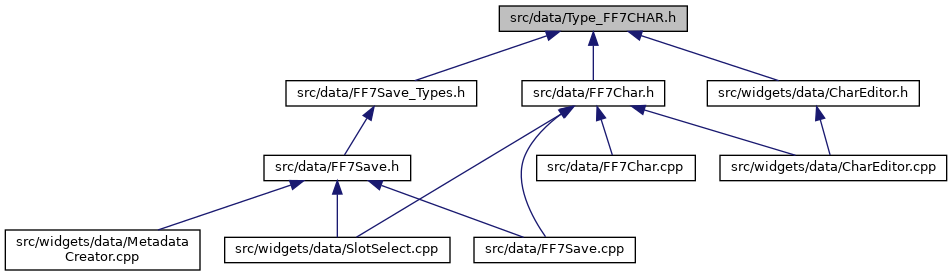
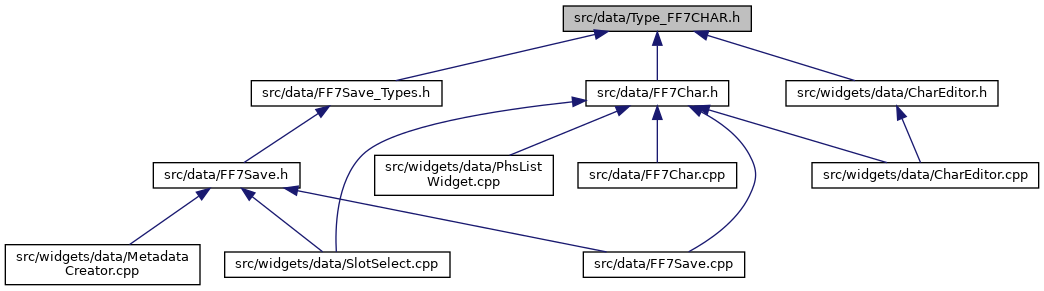
Deploying to gh-pages from @ sithlord48/ff7tk@a0fcc8d8a34610b9dc86fbca7d9c5ea27704c759 🚀

diff --git a/dir_000006_000002.html b/dir_000006_000002.html
@@ -67,7 +67,7 @@ $(function() {
 </div>
 </div><!-- top -->
 <div class="contents">
-<h3>widgets &rarr; data Relation</h3><table class="dirtab"><tr class="dirtab"><th class="dirtab">File in src/widgets</th><th class="dirtab">Includes file in src/data</th></tr><tr class="dirtab"><td class="dirtab"><a class="el" href="dir_79057e944445b198c6cf4982c61ef379.html">data</a>&#160;/&#160;<a class="el" href="AchievementEditor_8h.html">AchievementEditor.h</a></td><td class="dirtab"><a class="el" href="FF7Achievements_8h.html">FF7Achievements.h</a></td></tr><tr class="dirtab"><td class="dirtab"><a class="el" href="dir_79057e944445b198c6cf4982c61ef379.html">data</a>&#160;/&#160;<a class="el" href="CharEditor_8cpp.html">CharEditor.cpp</a></td><td class="dirtab"><a class="el" href="FF7Char_8h.html">FF7Char.h</a></td></tr><tr class="dirtab"><td class="dirtab"><a class="el" href="dir_79057e944445b198c6cf4982c61ef379.html">data</a>&#160;/&#160;<a class="el" href="CharEditor_8cpp.html">CharEditor.cpp</a></td><td class="dirtab"><a class="el" href="FF7Item_8h.html">FF7Item.h</a></td></tr><tr class="dirtab"><td class="dirtab"><a class="el" href="dir_79057e944445b198c6cf4982c61ef379.html">data</a>&#160;/&#160;<a class="el" href="CharEditor_8cpp.html">CharEditor.cpp</a></td><td class="dirtab"><a class="el" href="FF7Materia_8h.html">FF7Materia.h</a></td></tr><tr class="dirtab"><td class="dirtab"><a class="el" href="dir_79057e944445b198c6cf4982c61ef379.html">data</a>&#160;/&#160;<a class="el" href="CharEditor_8h.html">CharEditor.h</a></td><td class="dirtab"><a class="el" href="Type__FF7CHAR_8h.html">Type_FF7CHAR.h</a></td></tr><tr class="dirtab"><td class="dirtab"><a class="el" href="dir_79057e944445b198c6cf4982c61ef379.html">data</a>&#160;/&#160;<a class="el" href="ChocoboEditor_8h.html">ChocoboEditor.h</a></td><td class="dirtab"><a class="el" href="Type__FF7CHOCOBO_8h.html">Type_FF7CHOCOBO.h</a></td></tr><tr class="dirtab"><td class="dirtab"><a class="el" href="dir_79057e944445b198c6cf4982c61ef379.html">data</a>&#160;/&#160;<a class="el" href="ItemList_8cpp.html">ItemList.cpp</a></td><td class="dirtab"><a class="el" href="FF7Item_8h.html">FF7Item.h</a></td></tr><tr class="dirtab"><td class="dirtab"><a class="el" href="dir_79057e944445b198c6cf4982c61ef379.html">data</a>&#160;/&#160;<a class="el" href="ItemListView_8cpp.html">ItemListView.cpp</a></td><td class="dirtab"><a class="el" href="FF7Item_8h.html">FF7Item.h</a></td></tr><tr class="dirtab"><td class="dirtab"><a class="el" href="dir_79057e944445b198c6cf4982c61ef379.html">data</a>&#160;/&#160;<a class="el" href="ItemPreview_8cpp.html">ItemPreview.cpp</a></td><td class="dirtab"><a class="el" href="FF7Item_8h.html">FF7Item.h</a></td></tr><tr class="dirtab"><td class="dirtab"><a class="el" href="dir_79057e944445b198c6cf4982c61ef379.html">data</a>&#160;/&#160;<a class="el" href="ItemSelectionDelegate_8cpp.html">ItemSelectionDelegate.cpp</a></td><td class="dirtab"><a class="el" href="FF7Item_8h.html">FF7Item.h</a></td></tr><tr class="dirtab"><td class="dirtab"><a class="el" href="dir_79057e944445b198c6cf4982c61ef379.html">data</a>&#160;/&#160;<a class="el" href="ItemSelector_8cpp.html">ItemSelector.cpp</a></td><td class="dirtab"><a class="el" href="FF7Item_8h.html">FF7Item.h</a></td></tr><tr class="dirtab"><td class="dirtab"><a class="el" href="dir_79057e944445b198c6cf4982c61ef379.html">data</a>&#160;/&#160;<a class="el" href="LocationViewer_8cpp.html">LocationViewer.cpp</a></td><td class="dirtab"><a class="el" href="FF7FieldItemList_8h.html">FF7FieldItemList.h</a></td></tr><tr class="dirtab"><td class="dirtab"><a class="el" href="dir_79057e944445b198c6cf4982c61ef379.html">data</a>&#160;/&#160;<a class="el" href="LocationViewer_8cpp.html">LocationViewer.cpp</a></td><td class="dirtab"><a class="el" href="FF7Location_8h.html">FF7Location.h</a></td></tr><tr class="dirtab"><td class="dirtab"><a class="el" href="dir_79057e944445b198c6cf4982c61ef379.html">data</a>&#160;/&#160;<a class="el" href="MateriaEditor_8h.html">MateriaEditor.h</a></td><td class="dirtab"><a class="el" href="FF7Materia_8h.html">FF7Materia.h</a></td></tr><tr class="dirtab"><td class="dirtab"><a class="el" href="dir_79057e944445b198c6cf4982c61ef379.html">data</a>&#160;/&#160;<a class="el" href="MetadataCreator_8cpp.html">MetadataCreator.cpp</a></td><td class="dirtab"><a class="el" href="FF7Save_8h.html">FF7Save.h</a></td></tr><tr class="dirtab"><td class="dirtab"><a class="el" href="dir_79057e944445b198c6cf4982c61ef379.html">data</a>&#160;/&#160;<a class="el" href="MetadataCreator_8cpp.html">MetadataCreator.cpp</a></td><td class="dirtab"><a class="el" href="FF7SaveInfo_8h.html">FF7SaveInfo.h</a></td></tr><tr class="dirtab"><td class="dirtab"><a class="el" href="dir_79057e944445b198c6cf4982c61ef379.html">data</a>&#160;/&#160;<a class="el" href="SlotPreview_8cpp.html">SlotPreview.cpp</a></td><td class="dirtab"><a class="el" href="SaveIcon_8h.html">SaveIcon.h</a></td></tr><tr class="dirtab"><td class="dirtab"><a class="el" href="dir_79057e944445b198c6cf4982c61ef379.html">data</a>&#160;/&#160;<a class="el" href="SlotSelect_8cpp.html">SlotSelect.cpp</a></td><td class="dirtab"><a class="el" href="FF7Char_8h.html">FF7Char.h</a></td></tr><tr class="dirtab"><td class="dirtab"><a class="el" href="dir_79057e944445b198c6cf4982c61ef379.html">data</a>&#160;/&#160;<a class="el" href="SlotSelect_8cpp.html">SlotSelect.cpp</a></td><td class="dirtab"><a class="el" href="FF7Save_8h.html">FF7Save.h</a></td></tr></table></div><!-- contents -->
+<h3>widgets &rarr; data Relation</h3><table class="dirtab"><tr class="dirtab"><th class="dirtab">File in src/widgets</th><th class="dirtab">Includes file in src/data</th></tr><tr class="dirtab"><td class="dirtab"><a class="el" href="dir_79057e944445b198c6cf4982c61ef379.html">data</a>&#160;/&#160;<a class="el" href="AchievementEditor_8h.html">AchievementEditor.h</a></td><td class="dirtab"><a class="el" href="FF7Achievements_8h.html">FF7Achievements.h</a></td></tr><tr class="dirtab"><td class="dirtab"><a class="el" href="dir_79057e944445b198c6cf4982c61ef379.html">data</a>&#160;/&#160;<a class="el" href="CharEditor_8cpp.html">CharEditor.cpp</a></td><td class="dirtab"><a class="el" href="FF7Char_8h.html">FF7Char.h</a></td></tr><tr class="dirtab"><td class="dirtab"><a class="el" href="dir_79057e944445b198c6cf4982c61ef379.html">data</a>&#160;/&#160;<a class="el" href="CharEditor_8cpp.html">CharEditor.cpp</a></td><td class="dirtab"><a class="el" href="FF7Item_8h.html">FF7Item.h</a></td></tr><tr class="dirtab"><td class="dirtab"><a class="el" href="dir_79057e944445b198c6cf4982c61ef379.html">data</a>&#160;/&#160;<a class="el" href="CharEditor_8cpp.html">CharEditor.cpp</a></td><td class="dirtab"><a class="el" href="FF7Materia_8h.html">FF7Materia.h</a></td></tr><tr class="dirtab"><td class="dirtab"><a class="el" href="dir_79057e944445b198c6cf4982c61ef379.html">data</a>&#160;/&#160;<a class="el" href="CharEditor_8h.html">CharEditor.h</a></td><td class="dirtab"><a class="el" href="Type__FF7CHAR_8h.html">Type_FF7CHAR.h</a></td></tr><tr class="dirtab"><td class="dirtab"><a class="el" href="dir_79057e944445b198c6cf4982c61ef379.html">data</a>&#160;/&#160;<a class="el" href="ChocoboEditor_8h.html">ChocoboEditor.h</a></td><td class="dirtab"><a class="el" href="Type__FF7CHOCOBO_8h.html">Type_FF7CHOCOBO.h</a></td></tr><tr class="dirtab"><td class="dirtab"><a class="el" href="dir_79057e944445b198c6cf4982c61ef379.html">data</a>&#160;/&#160;<a class="el" href="ItemList_8cpp.html">ItemList.cpp</a></td><td class="dirtab"><a class="el" href="FF7Item_8h.html">FF7Item.h</a></td></tr><tr class="dirtab"><td class="dirtab"><a class="el" href="dir_79057e944445b198c6cf4982c61ef379.html">data</a>&#160;/&#160;<a class="el" href="ItemListView_8cpp.html">ItemListView.cpp</a></td><td class="dirtab"><a class="el" href="FF7Item_8h.html">FF7Item.h</a></td></tr><tr class="dirtab"><td class="dirtab"><a class="el" href="dir_79057e944445b198c6cf4982c61ef379.html">data</a>&#160;/&#160;<a class="el" href="ItemPreview_8cpp.html">ItemPreview.cpp</a></td><td class="dirtab"><a class="el" href="FF7Item_8h.html">FF7Item.h</a></td></tr><tr class="dirtab"><td class="dirtab"><a class="el" href="dir_79057e944445b198c6cf4982c61ef379.html">data</a>&#160;/&#160;<a class="el" href="ItemSelectionDelegate_8cpp.html">ItemSelectionDelegate.cpp</a></td><td class="dirtab"><a class="el" href="FF7Item_8h.html">FF7Item.h</a></td></tr><tr class="dirtab"><td class="dirtab"><a class="el" href="dir_79057e944445b198c6cf4982c61ef379.html">data</a>&#160;/&#160;<a class="el" href="ItemSelector_8cpp.html">ItemSelector.cpp</a></td><td class="dirtab"><a class="el" href="FF7Item_8h.html">FF7Item.h</a></td></tr><tr class="dirtab"><td class="dirtab"><a class="el" href="dir_79057e944445b198c6cf4982c61ef379.html">data</a>&#160;/&#160;<a class="el" href="LocationViewer_8cpp.html">LocationViewer.cpp</a></td><td class="dirtab"><a class="el" href="FF7FieldItemList_8h.html">FF7FieldItemList.h</a></td></tr><tr class="dirtab"><td class="dirtab"><a class="el" href="dir_79057e944445b198c6cf4982c61ef379.html">data</a>&#160;/&#160;<a class="el" href="LocationViewer_8cpp.html">LocationViewer.cpp</a></td><td class="dirtab"><a class="el" href="FF7Location_8h.html">FF7Location.h</a></td></tr><tr class="dirtab"><td class="dirtab"><a class="el" href="dir_79057e944445b198c6cf4982c61ef379.html">data</a>&#160;/&#160;<a class="el" href="MateriaEditor_8h.html">MateriaEditor.h</a></td><td class="dirtab"><a class="el" href="FF7Materia_8h.html">FF7Materia.h</a></td></tr><tr class="dirtab"><td class="dirtab"><a class="el" href="dir_79057e944445b198c6cf4982c61ef379.html">data</a>&#160;/&#160;<a class="el" href="MetadataCreator_8cpp.html">MetadataCreator.cpp</a></td><td class="dirtab"><a class="el" href="FF7Save_8h.html">FF7Save.h</a></td></tr><tr class="dirtab"><td class="dirtab"><a class="el" href="dir_79057e944445b198c6cf4982c61ef379.html">data</a>&#160;/&#160;<a class="el" href="MetadataCreator_8cpp.html">MetadataCreator.cpp</a></td><td class="dirtab"><a class="el" href="FF7SaveInfo_8h.html">FF7SaveInfo.h</a></td></tr><tr class="dirtab"><td class="dirtab"><a class="el" href="dir_79057e944445b198c6cf4982c61ef379.html">data</a>&#160;/&#160;<a class="el" href="PhsListWidget_8cpp.html">PhsListWidget.cpp</a></td><td class="dirtab"><a class="el" href="FF7Char_8h.html">FF7Char.h</a></td></tr><tr class="dirtab"><td class="dirtab"><a class="el" href="dir_79057e944445b198c6cf4982c61ef379.html">data</a>&#160;/&#160;<a class="el" href="SlotPreview_8cpp.html">SlotPreview.cpp</a></td><td class="dirtab"><a class="el" href="SaveIcon_8h.html">SaveIcon.h</a></td></tr><tr class="dirtab"><td class="dirtab"><a class="el" href="dir_79057e944445b198c6cf4982c61ef379.html">data</a>&#160;/&#160;<a class="el" href="SlotSelect_8cpp.html">SlotSelect.cpp</a></td><td class="dirtab"><a class="el" href="FF7Char_8h.html">FF7Char.h</a></td></tr><tr class="dirtab"><td class="dirtab"><a class="el" href="dir_79057e944445b198c6cf4982c61ef379.html">data</a>&#160;/&#160;<a class="el" href="SlotSelect_8cpp.html">SlotSelect.cpp</a></td><td class="dirtab"><a class="el" href="FF7Save_8h.html">FF7Save.h</a></td></tr></table></div><!-- contents -->
 <!-- start footer part -->
 <hr class="footer"/><address class="footer"><small>
 Generated by &#160;<a href="http://www.doxygen.org/index.html">

diff --git a/dir_000008_000002.html b/dir_000008_000002.html
@@ -67,7 +67,7 @@ $(function() {
 </div>
 </div><!-- top -->
 <div class="contents">
-<h3>data &rarr; data Relation</h3><table class="dirtab"><tr class="dirtab"><th class="dirtab">File in src/widgets/data</th><th class="dirtab">Includes file in src/data</th></tr><tr class="dirtab"><td class="dirtab"><a class="el" href="AchievementEditor_8h.html">AchievementEditor.h</a></td><td class="dirtab"><a class="el" href="FF7Achievements_8h.html">FF7Achievements.h</a></td></tr><tr class="dirtab"><td class="dirtab"><a class="el" href="CharEditor_8cpp.html">CharEditor.cpp</a></td><td class="dirtab"><a class="el" href="FF7Char_8h.html">FF7Char.h</a></td></tr><tr class="dirtab"><td class="dirtab"><a class="el" href="CharEditor_8cpp.html">CharEditor.cpp</a></td><td class="dirtab"><a class="el" href="FF7Item_8h.html">FF7Item.h</a></td></tr><tr class="dirtab"><td class="dirtab"><a class="el" href="CharEditor_8cpp.html">CharEditor.cpp</a></td><td class="dirtab"><a class="el" href="FF7Materia_8h.html">FF7Materia.h</a></td></tr><tr class="dirtab"><td class="dirtab"><a class="el" href="CharEditor_8h.html">CharEditor.h</a></td><td class="dirtab"><a class="el" href="Type__FF7CHAR_8h.html">Type_FF7CHAR.h</a></td></tr><tr class="dirtab"><td class="dirtab"><a class="el" href="ChocoboEditor_8h.html">ChocoboEditor.h</a></td><td class="dirtab"><a class="el" href="Type__FF7CHOCOBO_8h.html">Type_FF7CHOCOBO.h</a></td></tr><tr class="dirtab"><td class="dirtab"><a class="el" href="ItemList_8cpp.html">ItemList.cpp</a></td><td class="dirtab"><a class="el" href="FF7Item_8h.html">FF7Item.h</a></td></tr><tr class="dirtab"><td class="dirtab"><a class="el" href="ItemListView_8cpp.html">ItemListView.cpp</a></td><td class="dirtab"><a class="el" href="FF7Item_8h.html">FF7Item.h</a></td></tr><tr class="dirtab"><td class="dirtab"><a class="el" href="ItemPreview_8cpp.html">ItemPreview.cpp</a></td><td class="dirtab"><a class="el" href="FF7Item_8h.html">FF7Item.h</a></td></tr><tr class="dirtab"><td class="dirtab"><a class="el" href="ItemSelectionDelegate_8cpp.html">ItemSelectionDelegate.cpp</a></td><td class="dirtab"><a class="el" href="FF7Item_8h.html">FF7Item.h</a></td></tr><tr class="dirtab"><td class="dirtab"><a class="el" href="ItemSelector_8cpp.html">ItemSelector.cpp</a></td><td class="dirtab"><a class="el" href="FF7Item_8h.html">FF7Item.h</a></td></tr><tr class="dirtab"><td class="dirtab"><a class="el" href="LocationViewer_8cpp.html">LocationViewer.cpp</a></td><td class="dirtab"><a class="el" href="FF7FieldItemList_8h.html">FF7FieldItemList.h</a></td></tr><tr class="dirtab"><td class="dirtab"><a class="el" href="LocationViewer_8cpp.html">LocationViewer.cpp</a></td><td class="dirtab"><a class="el" href="FF7Location_8h.html">FF7Location.h</a></td></tr><tr class="dirtab"><td class="dirtab"><a class="el" href="MateriaEditor_8h.html">MateriaEditor.h</a></td><td class="dirtab"><a class="el" href="FF7Materia_8h.html">FF7Materia.h</a></td></tr><tr class="dirtab"><td class="dirtab"><a class="el" href="MetadataCreator_8cpp.html">MetadataCreator.cpp</a></td><td class="dirtab"><a class="el" href="FF7Save_8h.html">FF7Save.h</a></td></tr><tr class="dirtab"><td class="dirtab"><a class="el" href="MetadataCreator_8cpp.html">MetadataCreator.cpp</a></td><td class="dirtab"><a class="el" href="FF7SaveInfo_8h.html">FF7SaveInfo.h</a></td></tr><tr class="dirtab"><td class="dirtab"><a class="el" href="SlotPreview_8cpp.html">SlotPreview.cpp</a></td><td class="dirtab"><a class="el" href="SaveIcon_8h.html">SaveIcon.h</a></td></tr><tr class="dirtab"><td class="dirtab"><a class="el" href="SlotSelect_8cpp.html">SlotSelect.cpp</a></td><td class="dirtab"><a class="el" href="FF7Char_8h.html">FF7Char.h</a></td></tr><tr class="dirtab"><td class="dirtab"><a class="el" href="SlotSelect_8cpp.html">SlotSelect.cpp</a></td><td class="dirtab"><a class="el" href="FF7Save_8h.html">FF7Save.h</a></td></tr></table></div><!-- contents -->
+<h3>data &rarr; data Relation</h3><table class="dirtab"><tr class="dirtab"><th class="dirtab">File in src/widgets/data</th><th class="dirtab">Includes file in src/data</th></tr><tr class="dirtab"><td class="dirtab"><a class="el" href="AchievementEditor_8h.html">AchievementEditor.h</a></td><td class="dirtab"><a class="el" href="FF7Achievements_8h.html">FF7Achievements.h</a></td></tr><tr class="dirtab"><td class="dirtab"><a class="el" href="CharEditor_8cpp.html">CharEditor.cpp</a></td><td class="dirtab"><a class="el" href="FF7Char_8h.html">FF7Char.h</a></td></tr><tr class="dirtab"><td class="dirtab"><a class="el" href="CharEditor_8cpp.html">CharEditor.cpp</a></td><td class="dirtab"><a class="el" href="FF7Item_8h.html">FF7Item.h</a></td></tr><tr class="dirtab"><td class="dirtab"><a class="el" href="CharEditor_8cpp.html">CharEditor.cpp</a></td><td class="dirtab"><a class="el" href="FF7Materia_8h.html">FF7Materia.h</a></td></tr><tr class="dirtab"><td class="dirtab"><a class="el" href="CharEditor_8h.html">CharEditor.h</a></td><td class="dirtab"><a class="el" href="Type__FF7CHAR_8h.html">Type_FF7CHAR.h</a></td></tr><tr class="dirtab"><td class="dirtab"><a class="el" href="ChocoboEditor_8h.html">ChocoboEditor.h</a></td><td class="dirtab"><a class="el" href="Type__FF7CHOCOBO_8h.html">Type_FF7CHOCOBO.h</a></td></tr><tr class="dirtab"><td class="dirtab"><a class="el" href="ItemList_8cpp.html">ItemList.cpp</a></td><td class="dirtab"><a class="el" href="FF7Item_8h.html">FF7Item.h</a></td></tr><tr class="dirtab"><td class="dirtab"><a class="el" href="ItemListView_8cpp.html">ItemListView.cpp</a></td><td class="dirtab"><a class="el" href="FF7Item_8h.html">FF7Item.h</a></td></tr><tr class="dirtab"><td class="dirtab"><a class="el" href="ItemPreview_8cpp.html">ItemPreview.cpp</a></td><td class="dirtab"><a class="el" href="FF7Item_8h.html">FF7Item.h</a></td></tr><tr class="dirtab"><td class="dirtab"><a class="el" href="ItemSelectionDelegate_8cpp.html">ItemSelectionDelegate.cpp</a></td><td class="dirtab"><a class="el" href="FF7Item_8h.html">FF7Item.h</a></td></tr><tr class="dirtab"><td class="dirtab"><a class="el" href="ItemSelector_8cpp.html">ItemSelector.cpp</a></td><td class="dirtab"><a class="el" href="FF7Item_8h.html">FF7Item.h</a></td></tr><tr class="dirtab"><td class="dirtab"><a class="el" href="LocationViewer_8cpp.html">LocationViewer.cpp</a></td><td class="dirtab"><a class="el" href="FF7FieldItemList_8h.html">FF7FieldItemList.h</a></td></tr><tr class="dirtab"><td class="dirtab"><a class="el" href="LocationViewer_8cpp.html">LocationViewer.cpp</a></td><td class="dirtab"><a class="el" href="FF7Location_8h.html">FF7Location.h</a></td></tr><tr class="dirtab"><td class="dirtab"><a class="el" href="MateriaEditor_8h.html">MateriaEditor.h</a></td><td class="dirtab"><a class="el" href="FF7Materia_8h.html">FF7Materia.h</a></td></tr><tr class="dirtab"><td class="dirtab"><a class="el" href="MetadataCreator_8cpp.html">MetadataCreator.cpp</a></td><td class="dirtab"><a class="el" href="FF7Save_8h.html">FF7Save.h</a></td></tr><tr class="dirtab"><td class="dirtab"><a class="el" href="MetadataCreator_8cpp.html">MetadataCreator.cpp</a></td><td class="dirtab"><a class="el" href="FF7SaveInfo_8h.html">FF7SaveInfo.h</a></td></tr><tr class="dirtab"><td class="dirtab"><a class="el" href="PhsListWidget_8cpp.html">PhsListWidget.cpp</a></td><td class="dirtab"><a class="el" href="FF7Char_8h.html">FF7Char.h</a></td></tr><tr class="dirtab"><td class="dirtab"><a class="el" href="SlotPreview_8cpp.html">SlotPreview.cpp</a></td><td class="dirtab"><a class="el" href="SaveIcon_8h.html">SaveIcon.h</a></td></tr><tr class="dirtab"><td class="dirtab"><a class="el" href="SlotSelect_8cpp.html">SlotSelect.cpp</a></td><td class="dirtab"><a class="el" href="FF7Char_8h.html">FF7Char.h</a></td></tr><tr class="dirtab"><td class="dirtab"><a class="el" href="SlotSelect_8cpp.html">SlotSelect.cpp</a></td><td class="dirtab"><a class="el" href="FF7Save_8h.html">FF7Save.h</a></td></tr></table></div><!-- contents -->
 <!-- start footer part -->
 <hr class="footer"/><address class="footer"><small>
 Generated by &#160;<a href="http://www.doxygen.org/index.html">

diff --git a/Type__materia_8h.html b/Type__materia_8h.html
@@ -93,21 +93,22 @@ This graph shows which files directly or indirectly include this file:</div>
 <div class="dyncontent">
 <div class="center"><img src="Type__materia_8h__dep__incl.png" border="0" usemap="#src_2data_2Type__materia_8hdep" alt=""/></div>
 <map name="src_2data_2Type__materia_8hdep" id="src_2data_2Type__materia_8hdep">
-<area shape="rect" title=" " alt="" coords="397,5,576,32"/>
-<area shape="rect" href="FF7Materia_8h.html" title=" " alt="" coords="269,80,433,107"/>
-<area shape="rect" href="Type__FF7CHAR_8h.html" title=" " alt="" coords="629,80,817,107"/>
-<area shape="rect" href="FF7Materia_8cpp.html" title=" " alt="" coords="5,162,184,189"/>
-<area shape="rect" href="FF7Save_8cpp.html" title=" " alt="" coords="650,341,811,367"/>
-<area shape="rect" href="CharEditor_8cpp.html" title=" " alt="" coords="467,251,693,278"/>
-<area shape="rect" href="MateriaEditor_8h.html" title=" " alt="" coords="259,155,442,196"/>
-<area shape="rect" href="MateriaEditor_8cpp.html" title=" " alt="" coords="259,244,442,285"/>
-<area shape="rect" href="FF7Char_8h.html" title=" " alt="" coords="753,162,895,189"/>
-<area shape="rect" href="FF7Save__Types_8h.html" title=" " alt="" coords="950,162,1141,189"/>
-<area shape="rect" href="CharEditor_8h.html" title=" " alt="" coords="517,162,729,189"/>
-<area shape="rect" href="FF7Char_8cpp.html" title=" " alt="" coords="769,251,927,278"/>
-<area shape="rect" href="SlotSelect_8cpp.html" title=" " alt="" coords="853,341,1078,367"/>
-<area shape="rect" href="FF7Save_8h.html" title=" " alt="" coords="1003,251,1149,278"/>
-<area shape="rect" href="MetadataCreator_8cpp.html" title=" " alt="" coords="1103,333,1297,375"/>
+<area shape="rect" title=" " alt="" coords="389,5,567,32"/>
+<area shape="rect" href="FF7Materia_8h.html" title=" " alt="" coords="261,80,425,107"/>
+<area shape="rect" href="Type__FF7CHAR_8h.html" title=" " alt="" coords="619,80,807,107"/>
+<area shape="rect" href="FF7Materia_8cpp.html" title=" " alt="" coords="254,162,433,189"/>
+<area shape="rect" href="FF7Save_8cpp.html" title=" " alt="" coords="655,341,816,367"/>
+<area shape="rect" href="CharEditor_8cpp.html" title=" " alt="" coords="322,251,549,278"/>
+<area shape="rect" href="MateriaEditor_8h.html" title=" " alt="" coords="47,155,229,196"/>
+<area shape="rect" href="MateriaEditor_8cpp.html" title=" " alt="" coords="47,244,229,285"/>
+<area shape="rect" href="FF7Char_8h.html" title=" " alt="" coords="743,162,885,189"/>
+<area shape="rect" href="FF7Save__Types_8h.html" title=" " alt="" coords="961,162,1152,189"/>
+<area shape="rect" href="CharEditor_8h.html" title=" " alt="" coords="507,162,719,189"/>
+<area shape="rect" href="FF7Char_8cpp.html" title=" " alt="" coords="877,251,1036,278"/>
+<area shape="rect" href="PhsListWidget_8cpp.html" title=" " alt="" coords="573,244,751,285"/>
+<area shape="rect" href="SlotSelect_8cpp.html" title=" " alt="" coords="840,341,1065,367"/>
+<area shape="rect" href="FF7Save_8h.html" title=" " alt="" coords="1061,251,1207,278"/>
+<area shape="rect" href="MetadataCreator_8cpp.html" title=" " alt="" coords="1090,333,1285,375"/>
 </map>
 </div>
 </div>

diff --git a/PhsListWidget_8cpp.html b/PhsListWidget_8cpp.html
@@ -74,20 +74,29 @@ $(function() {
 <div class="textblock"><code>#include &lt;<a class="el" href="PhsListWidget_8h_source.html">PhsListWidget.h</a>&gt;</code><br />
 <code>#include &lt;QLabel&gt;</code><br />
 <code>#include &lt;QVBoxLayout&gt;</code><br />
+<code>#include &lt;<a class="el" href="FF7Char_8h_source.html">FF7Char.h</a>&gt;</code><br />
 </div><div class="textblock"><div class="dynheader">
 Include dependency graph for PhsListWidget.cpp:</div>
 <div class="dyncontent">
 <div class="center"><img src="PhsListWidget_8cpp__incl.png" border="0" usemap="#src_2widgets_2data_2PhsListWidget_8cpp" alt=""/></div>
 <map name="src_2widgets_2data_2PhsListWidget_8cpp" id="src_2widgets_2data_2PhsListWidget_8cpp">
-<area shape="rect" title=" " alt="" coords="51,5,229,47"/>
-<area shape="rect" href="PhsListWidget_8h.html" title=" " alt="" coords="77,95,203,121"/>
+<area shape="rect" title=" " alt="" coords="216,5,395,47"/>
+<area shape="rect" href="PhsListWidget_8h.html" title=" " alt="" coords="171,95,298,121"/>
 <area shape="rect" title=" " alt="" coords="5,169,72,196"/>
-<area shape="rect" title=" " alt="" coords="227,95,338,121"/>
-<area shape="rect" title=" " alt="" coords="96,169,165,196"/>
-<area shape="rect" title=" " alt="" coords="190,169,354,196"/>
-<area shape="rect" href="DoubleCheckBox_8h.html" title=" " alt="" coords="378,169,523,196"/>
-<area shape="rect" title=" " alt="" coords="335,244,414,271"/>
-<area shape="rect" title=" " alt="" coords="438,244,615,271"/>
+<area shape="rect" title=" " alt="" coords="322,95,433,121"/>
+<area shape="rect" href="FF7Char_8h.html" title=" " alt="" coords="645,95,731,121"/>
+<area shape="rect" title=" " alt="" coords="267,169,336,196"/>
+<area shape="rect" title=" " alt="" coords="361,169,525,196"/>
+<area shape="rect" href="DoubleCheckBox_8h.html" title=" " alt="" coords="97,169,242,196"/>
+<area shape="rect" title=" " alt="" coords="54,244,133,271"/>
+<area shape="rect" title=" " alt="" coords="157,244,334,271"/>
+<area shape="rect" title=" " alt="" coords="549,169,624,196"/>
+<area shape="rect" title=" " alt="" coords="649,169,727,196"/>
+<area shape="rect" title=" " alt="" coords="719,319,833,345"/>
+<area shape="rect" href="Type__FF7CHAR_8h.html" title=" " alt="" coords="826,169,958,196"/>
+<area shape="rect" title=" " alt="" coords="976,319,1107,345"/>
+<area shape="rect" href="Type__materia_8h.html" title=" " alt="" coords="853,244,976,271"/>
+<area shape="rect" title=" " alt="" coords="857,319,951,345"/>
 </map>
 </div>
 </div></div><!-- contents -->

diff --git a/Type__FF7CHAR_8h.html b/Type__FF7CHAR_8h.html
@@ -93,16 +93,17 @@ This graph shows which files directly or indirectly include this file:</div>
 <div class="dyncontent">
 <div class="center"><img src="Type__FF7CHAR_8h__dep__incl.png" border="0" usemap="#src_2data_2Type__FF7CHAR_8hdep" alt=""/></div>
 <map name="src_2data_2Type__FF7CHAR_8hdep" id="src_2data_2Type__FF7CHAR_8hdep">
-<area shape="rect" title=" " alt="" coords="499,5,687,32"/>
-<area shape="rect" href="FF7Char_8h.html" title=" " alt="" coords="522,80,665,107"/>
-<area shape="rect" href="FF7Save__Types_8h.html" title=" " alt="" coords="286,80,477,107"/>
-<area shape="rect" href="CharEditor_8h.html" title=" " alt="" coords="707,80,919,107"/>
-<area shape="rect" href="FF7Char_8cpp.html" title=" " alt="" coords="537,155,695,181"/>
-<area shape="rect" href="FF7Save_8cpp.html" title=" " alt="" coords="474,237,635,263"/>
-<area shape="rect" href="CharEditor_8cpp.html" title=" " alt="" coords="720,155,947,181"/>
-<area shape="rect" href="SlotSelect_8cpp.html" title=" " alt="" coords="225,237,450,263"/>
-<area shape="rect" href="FF7Save_8h.html" title=" " alt="" coords="264,155,411,181"/>
-<area shape="rect" href="MetadataCreator_8cpp.html" title=" " alt="" coords="5,229,200,271"/>
+<area shape="rect" title=" " alt="" coords="563,5,751,32"/>
+<area shape="rect" href="FF7Char_8h.html" title=" " alt="" coords="586,80,729,107"/>
+<area shape="rect" href="FF7Save__Types_8h.html" title=" " alt="" coords="251,80,442,107"/>
+<area shape="rect" href="CharEditor_8h.html" title=" " alt="" coords="786,80,998,107"/>
+<area shape="rect" href="FF7Char_8cpp.html" title=" " alt="" coords="578,162,737,189"/>
+<area shape="rect" href="FF7Save_8cpp.html" title=" " alt="" coords="583,251,745,278"/>
+<area shape="rect" href="CharEditor_8cpp.html" title=" " alt="" coords="812,162,1039,189"/>
+<area shape="rect" href="PhsListWidget_8cpp.html" title=" " alt="" coords="375,155,553,196"/>
+<area shape="rect" href="SlotSelect_8cpp.html" title=" " alt="" coords="225,251,450,278"/>
+<area shape="rect" href="FF7Save_8h.html" title=" " alt="" coords="153,162,300,189"/>
+<area shape="rect" href="MetadataCreator_8cpp.html" title=" " alt="" coords="5,244,200,285"/>
 </map>
 </div>
 </div>

diff --git a/FF7Char_8h.html b/FF7Char_8h.html
@@ -97,11 +97,12 @@ This graph shows which files directly or indirectly include this file:</div>
 <div class="dyncontent">
 <div class="center"><img src="FF7Char_8h__dep__incl.png" border="0" usemap="#src_2data_2FF7Char_8hdep" alt=""/></div>
 <map name="src_2data_2FF7Char_8hdep" id="src_2data_2FF7Char_8hdep">
-<area shape="rect" title=" " alt="" coords="307,5,449,32"/>
-<area shape="rect" href="FF7Char_8cpp.html" title=" " alt="" coords="5,80,164,107"/>
-<area shape="rect" href="FF7Save_8cpp.html" title=" " alt="" coords="188,80,349,107"/>
-<area shape="rect" href="CharEditor_8cpp.html" title=" " alt="" coords="374,80,601,107"/>
-<area shape="rect" href="SlotSelect_8cpp.html" title=" " alt="" coords="625,80,851,107"/>
+<area shape="rect" title=" " alt="" coords="416,5,559,32"/>
+<area shape="rect" href="FF7Char_8cpp.html" title=" " alt="" coords="5,87,164,114"/>
+<area shape="rect" href="FF7Save_8cpp.html" title=" " alt="" coords="188,87,349,114"/>
+<area shape="rect" href="CharEditor_8cpp.html" title=" " alt="" coords="374,87,601,114"/>
+<area shape="rect" href="PhsListWidget_8cpp.html" title=" " alt="" coords="625,80,803,121"/>
+<area shape="rect" href="SlotSelect_8cpp.html" title=" " alt="" coords="828,87,1053,114"/>
 </map>
 </div>
 </div>

diff --git a/dir_79057e944445b198c6cf4982c61ef379.html b/dir_79057e944445b198c6cf4982c61ef379.html
@@ -78,7 +78,7 @@ Directory dependency graph for data:</div>
 <map name="dir__79057e944445b198c6cf4982c61ef379__dep" id="dir__79057e944445b198c6cf4982c61ef379__dep">
 <area shape="rect" href="dir_79057e944445b198c6cf4982c61ef379.html" title="data" alt="" coords="55,52,127,100"/>
 <area shape="rect" href="dir_c1be8d27e7f84178e95f152701110b19.html" title="data" alt="" coords="5,148,77,196"/>
-<area shape="rect" href="dir_000008_000002.html" title="19" alt="" coords="61,128,78,143"/>
+<area shape="rect" href="dir_000008_000002.html" title="20" alt="" coords="61,128,78,143"/>
 <area shape="rect" href="dir_8aa2662f8a0e462442ff921476e1113f.html" title="common" alt="" coords="102,148,181,196"/>
 <area shape="rect" href="dir_000008_000007.html" title="3" alt="" coords="123,121,132,135"/>
 <area shape="rect" href="dir_0abdee562046be6f5823d1ca8c3fd13c.html" title="widgets" alt="" coords="44,16,137,111"/>

diff --git a/dir_0abdee562046be6f5823d1ca8c3fd13c.html b/dir_0abdee562046be6f5823d1ca8c3fd13c.html
@@ -80,7 +80,7 @@ Directory dependency graph for widgets:</div>
 <area shape="rect" href="dir_79057e944445b198c6cf4982c61ef379.html" title="data" alt="" coords="37,63,109,111"/>
 <area shape="rect" href="dir_000008_000007.html" title="3" alt="" coords="79,133,89,147"/>
 <area shape="rect" href="dir_c1be8d27e7f84178e95f152701110b19.html" title="data" alt="" coords="240,159,312,207"/>
-<area shape="rect" href="dir_000008_000002.html" title="19" alt="" coords="218,142,235,157"/>
+<area shape="rect" href="dir_000008_000002.html" title="20" alt="" coords="218,142,235,157"/>
 <area shape="rect" href="dir_0abdee562046be6f5823d1ca8c3fd13c.html" alt="" coords="27,52,219,217"/>
 <area shape="rect" href="dir_68267d1309a1af8e8297ef4c3efbcdba.html" title="src" alt="" coords="16,16,229,228"/>
 </map>

diff --git a/dir_68267d1309a1af8e8297ef4c3efbcdba.html b/dir_68267d1309a1af8e8297ef4c3efbcdba.html
@@ -81,7 +81,7 @@ Directory dependency graph for src:</div>
 <area shape="rect" href="dir_313caf1132e152dd9b58bea13a4052ca.html" title="utils" alt="" coords="125,123,197,171"/>
 <area shape="rect" href="dir_000004_000005.html" title="7" alt="" coords="165,97,174,112"/>
 <area shape="rect" href="dir_0abdee562046be6f5823d1ca8c3fd13c.html" title="widgets" alt="" coords="27,27,101,75"/>
-<area shape="rect" href="dir_000006_000002.html" title="19" alt="" coords="64,97,81,112"/>
+<area shape="rect" href="dir_000006_000002.html" title="20" alt="" coords="64,97,81,112"/>
 <area shape="rect" href="dir_68267d1309a1af8e8297ef4c3efbcdba.html" alt="" coords="16,16,305,181"/>
 </map>
 </div>
